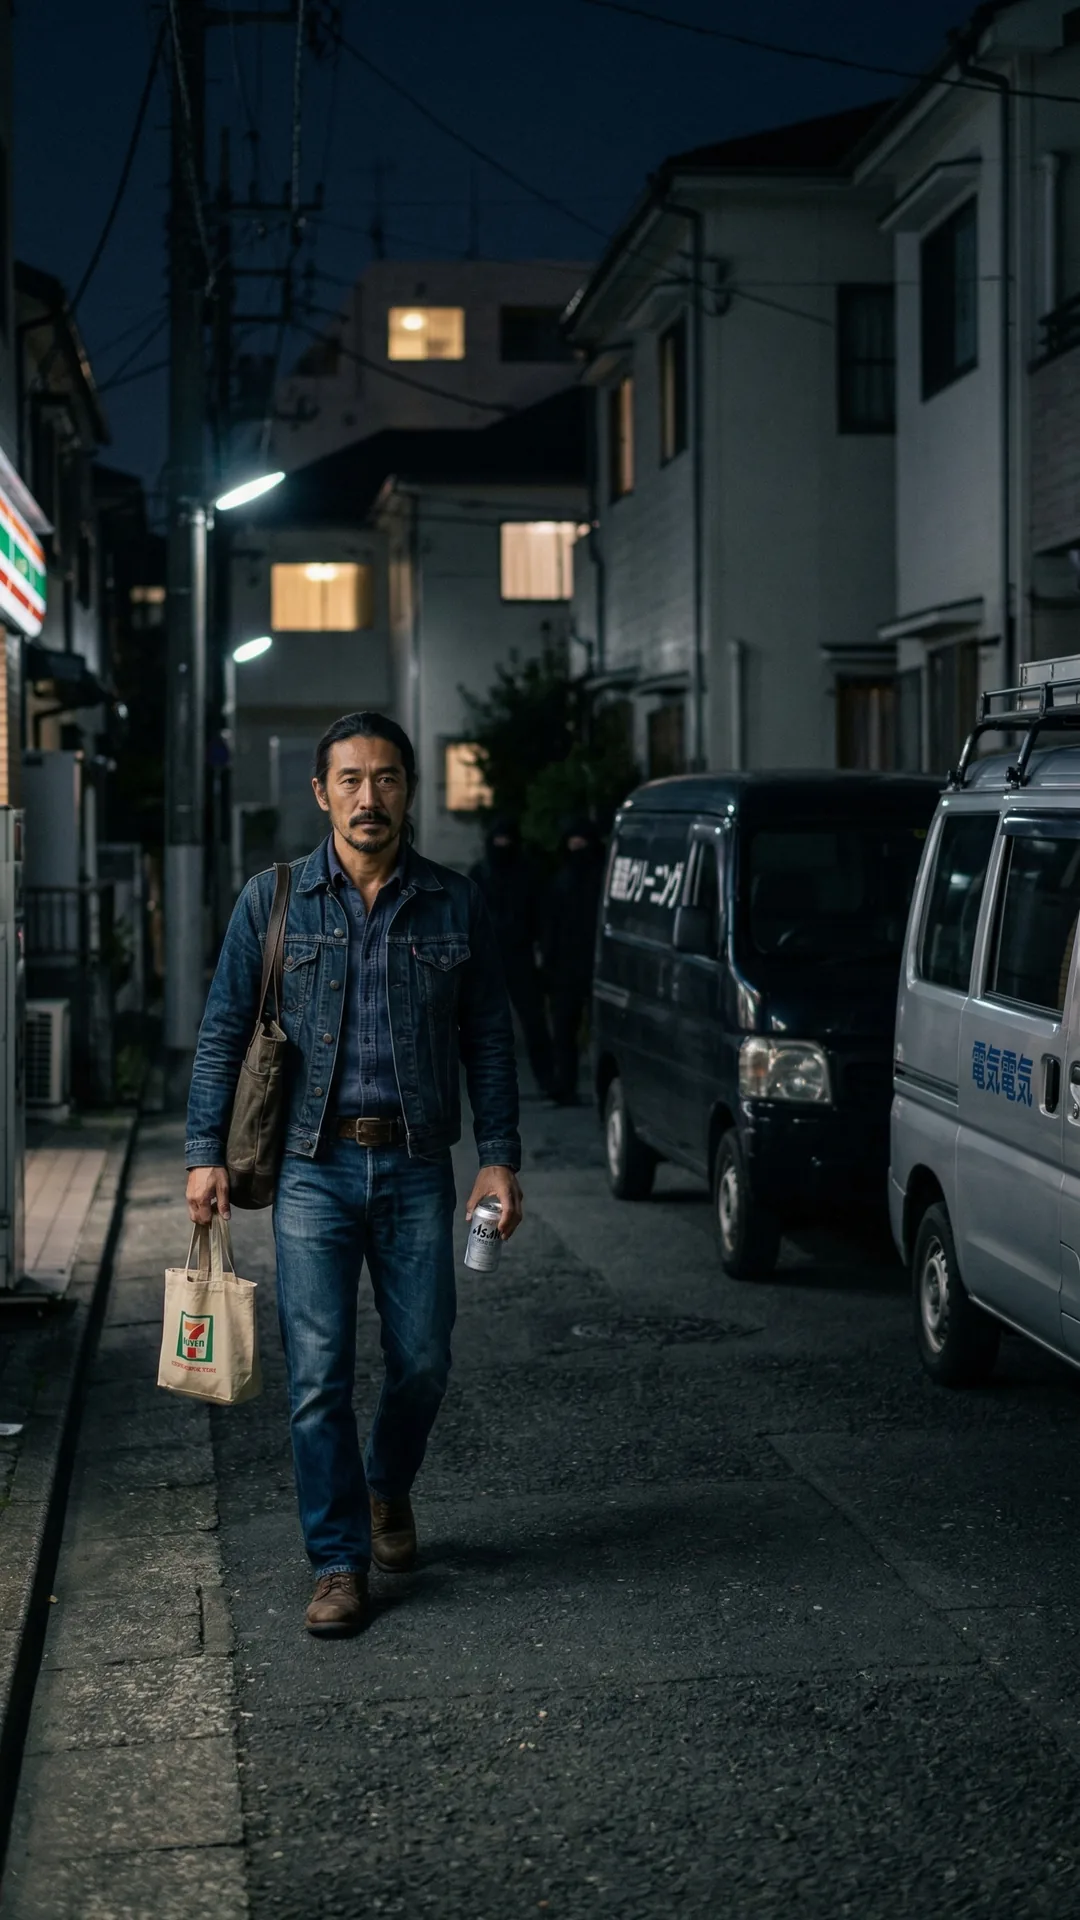
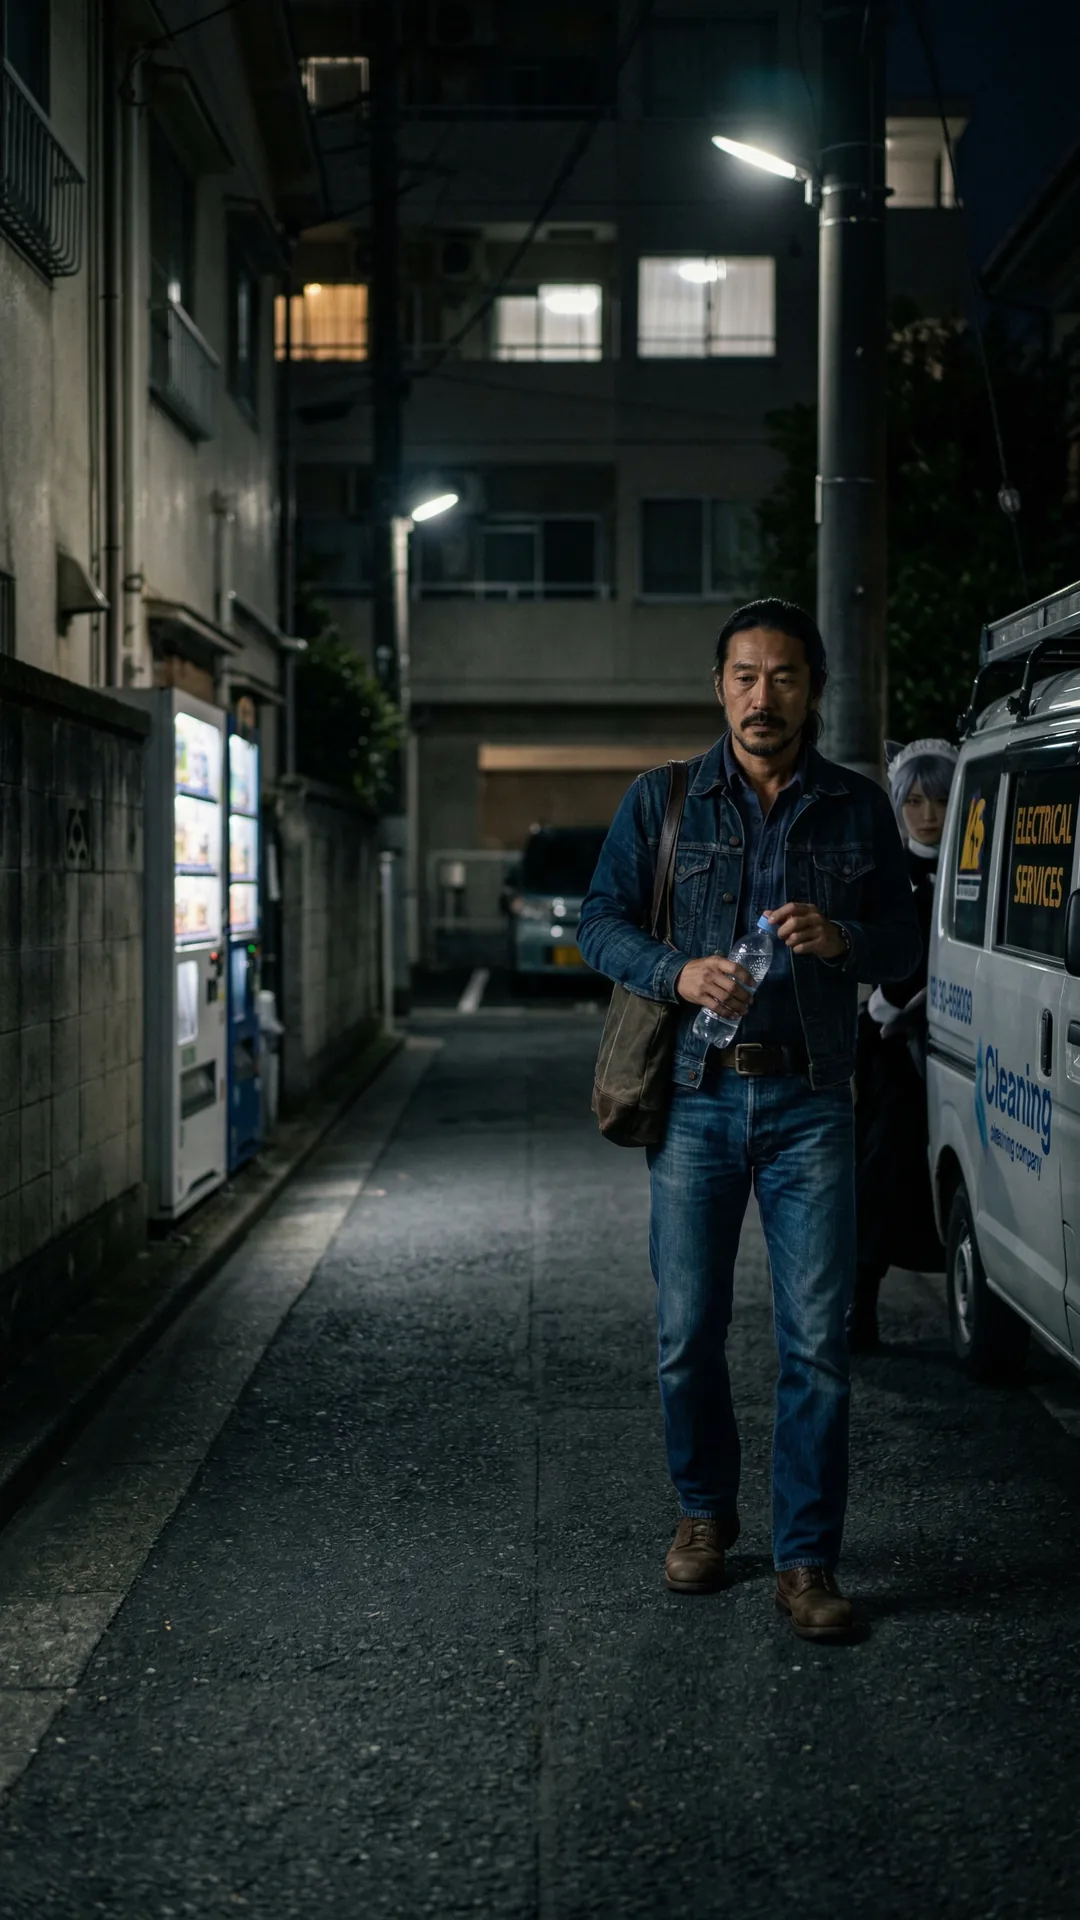
Refine title flow and chapter 3 visuals

diff --git a/docs/story-data.js b/docs/story-data.js
@@ -1,18 +1,18 @@
 window.STORY_DATA = {
-  "title": "サトーの優雅な休日、ただし暗殺者つき",
+  "title": "サトーの優雅な休日、ただし猫耳メイド護衛付き",
   "subtitle": "",
   "author": "",
   "genre": "現代スパイ日常コメディ",
   "slug": "sato-holiday-assassins",
   "status": "reviewing_chapter_03",
-  "updatedAt": "2026-03-08T08:15:22.995Z",
+  "updatedAt": "2026-03-08T08:52:03.648Z",
   "titleDisplayLines": [
     "サトーの優雅な休日、",
-    "ただし暗殺者つき"
+    "ただし猫耳メイド護衛付き"
   ],
   "titleImage": "./images/title/title-cover.webp",
-  "titleImageAlt": "サトーの優雅な休日、ただし暗殺者つき のタイトルビジュアル",
-  "generatedAt": "2026-03-08T08:15:22.996Z",
+  "titleImageAlt": "サトーの優雅な休日、ただし猫耳メイド護衛付き のタイトルビジュアル",
+  "generatedAt": "2026-03-08T08:52:03.649Z",
   "talkCount": 6,
   "sceneCount": 12,
   "scenes": [
@@ -512,23 +512,23 @@ window.STORY_DATA = {
       "talkTitle": "第1話　商店街の寄り道",
       "talkIndex": 2,
       "sectionLabel": "第2節",
-      "title": "第2節　豆屋の角は香りが濃い",
-      "summary": "商店街の端には、小さな自家焙煎の豆屋がある。店先へ立つだけで、昼の空気が少しだけ深くなるような香りがした。サトーはその匂いを吸い込むたび、コーヒーというのは飲み物である前に環境…",
+      "title": "第2節　焙煎店の角は香りが濃い",
+      "summary": "商店街の端には、小さな自家焙煎の店がある。店先へ立つだけで、昼の空気が少しだけ深くなるような香りがした。サトーはその匂いを吸い込むたび、コーヒーというのは飲み物である前に環境な…",
       "image": "./images/episodes/scene-002-001-002.webp",
-      "alt": "第2章　昼の第2節　豆屋の角は香りが濃いをイメージしたビジュアルカード",
+      "alt": "第2章　昼の第2節　焙煎店の角は香りが濃いをイメージしたビジュアルカード",
       "beatCount": 14,
       "beats": [
         {
           "id": "scene-002-001-002-beat-001",
           "index": 0,
           "kind": "narration",
-          "rawText": "商店街の端には、小さな自家焙煎の豆屋がある。店先へ立つだけで、昼の空気が少しだけ深くなるような香りがした。サトーはその匂いを吸い込むたび、コーヒーというのは飲み物である前に環境なのかもしれない、と思う。"
+          "rawText": "商店街の端には、小さな自家焙煎の店がある。店先へ立つだけで、昼の空気が少しだけ深くなるような香りがした。サトーはその匂いを吸い込むたび、コーヒーというのは飲み物である前に環境なのかもしれない、と思う。"
         },
         {
           "id": "scene-002-001-002-beat-002",
           "index": 1,
           "kind": "narration",
-          "rawText": "豆の袋を眺めながら、深煎りにするか、中煎りにするかでしばらく迷う。休日の午後へつなぐなら深煎りだが、夜の余韻まで考えるなら中煎りがいい。サトーにとって選択とは、だいたい今だけでなく数時間先の機嫌を決める行為だった。"
+          "rawText": "コーヒー豆の袋を眺めながら、深煎りにするか、中煎りにするかでしばらく迷う。休日の午後へつなぐなら深煎りだが、夜の余韻まで考えるなら中煎りがいい。サトーにとって選択とは、だいたい今だけでなく数時間先の機嫌を決める行為だった。"
         },
         {
           "id": "scene-002-001-002-beat-003",
@@ -540,7 +540,7 @@ window.STORY_DATA = {
           "id": "scene-002-001-002-beat-004",
           "index": 3,
           "kind": "narration",
-          "rawText": "ニャル子は豆屋のひさしの上から、男の靴先だけを見ていた。歩調が配達のそれではない。荷重が前へ逃げすぎていて、逃走の準備が先に来ている。"
+          "rawText": "ニャル子は焙煎店のひさしの上から、男の靴先だけを見ていた。歩調が配達のそれではない。荷重が前へ逃げすぎていて、逃走の準備が先に来ている。"
         },
         {
           "id": "scene-002-001-002-beat-005",
@@ -558,7 +558,7 @@ window.STORY_DATA = {
           "id": "scene-002-001-002-beat-007",
           "index": 6,
           "kind": "narration",
-          "rawText": "段ボールは本人の足元で潰れ、中の反応剤はまだ混ざる前に、ニャル子が袖口から滑らせた吸着布へ飲み込まれた。男が声を上げるより早く、彼女は肘で鳩尾を打ち、膝裏を払う。崩れた体を豆屋の脇の死角へ引き込むまで、店先の風鈴は一度しか鳴らなかった。"
+          "rawText": "段ボールは本人の足元で潰れ、中の反応剤はまだ混ざる前に、ニャル子が袖口から滑らせた吸着布へ飲み込まれた。男が声を上げるより早く、彼女は肘で鳩尾を打ち、膝裏を払う。崩れた体を焙煎店の脇の死角へ引き込むまで、店先の風鈴は一度しか鳴らなかった。"
         },
         {
           "id": "scene-002-001-002-beat-008",
@@ -736,7 +736,7 @@ window.STORY_DATA = {
           "id": "scene-002-002-002-beat-008",
           "index": 7,
           "kind": "dialogue",
-          "rawText": "「帰り道に、いい豆でもあれば完璧なんだけどな」"
+          "rawText": "「このまま静かに帰れたら、かなり上出来だな」"
         },
         {
           "id": "scene-002-002-002-beat-009",
@@ -774,7 +774,7 @@ window.STORY_DATA = {
           "id": "scene-003-001-001-beat-002",
           "index": 1,
           "kind": "narration",
-          "rawText": "紙袋の中身はちょうどいい。昆布、漬物、豆、本、それに昼の名残の甘い匂い。これだけあれば、帰ってからの時間はだいたいうまくいく。サトーは歩きながら、今夜は軽く茶漬けにして、そのあと新しい豆を少しだけ挽こうかと考えていた。休日の終わりは、派手でなくていい。むしろ、きれいに静かであれば十分だった。"
+          "rawText": "紙袋の中身はちょうどいい。昆布、漬物、コーヒー豆、本、それに昼の名残の甘い匂い。これだけあれば、帰ってからの時間はだいたいうまくいく。サトーは歩きながら、今夜は軽く茶漬けにして、そのあと新しいコーヒー豆を少しだけ挽こうかと考えていた。休日の終わりは、派手でなくていい。むしろ、きれいに静かであれば十分だった。"
         },
         {
           "id": "scene-003-001-001-beat-003",
@@ -884,7 +884,7 @@ window.STORY_DATA = {
           "id": "scene-003-001-002-beat-003",
           "index": 2,
           "kind": "narration",
-          "rawText": "路地へ戻ると、夜気はもう昼の余熱をほとんど手放していた。サトーは炭酸水の缶を軽く振り、音だけ確かめる。これを風呂上がりまで残しておけたら今日は勝ちだ、と彼は思った。"
+          "rawText": "路地へ戻ると、夜気はもう昼の余熱をほとんど手放していた。サトーは炭酸水のペットボトルを軽く傾け、キャップ越しに気泡の音だけ確かめる。これを風呂上がりまで残しておけたら今日は勝ちだ、と彼は思った。"
         },
         {
           "id": "scene-003-001-002-beat-004",
@@ -920,7 +920,7 @@ window.STORY_DATA = {
           "id": "scene-003-001-002-beat-009",
           "index": 8,
           "kind": "narration",
-          "rawText": "残る二人はマンション前へ駆けようとした。サトーはちょうど、その数メートル先で炭酸水の缶を持ち直している。危ない距離だが、見えてしまう距離ではない。ニャル子はエプロンの裏から二本の短い針を抜き、歩幅のリズムに合わせて放った。一本は肩口、もう一本は手首。男たちは声を上げる暇もなく壁へもたれ、そのままずるずると座り込む。"
+          "rawText": "残る二人はマンション前へ駆けようとした。サトーはちょうど、その数メートル先で炭酸水のペットボトルを持ち直している。危ない距離だが、見えてしまう距離ではない。ニャル子はエプロンの裏から二本の短い針を抜き、歩幅のリズムに合わせて放った。一本は肩口、もう一本は手首。男たちは声を上げる暇もなく壁へもたれ、そのままずるずると座り込む。"
         },
         {
           "id": "scene-003-001-002-beat-010",
@@ -979,7 +979,7 @@ window.STORY_DATA = {
       "talkIndex": 5,
       "sectionLabel": "第1節",
       "title": "第1節　部屋の灯りはやわらかい",
-      "summary": "部屋へ入ると、サトーはまず靴を揃えた。荷物を台所へ置き、昆布と漬物を冷蔵庫へ収め、豆の袋だけは食器棚の前へ出しておく。帰宅直後の数分で生活が整うと、その夜はだいたいうまく終わる…",
+      "summary": "部屋へ入ると、サトーはまず靴を揃えた。荷物を台所へ置き、昆布と漬物を冷蔵庫へ収め、コーヒー豆の袋だけは食器棚の前へ出しておく。帰宅直後の数分で生活が整うと、その夜はだいたいうま…",
       "image": "./images/episodes/scene-003-002-001.webp",
       "alt": "第3章　夜の第1節　部屋の灯りはやわらかいをイメージしたビジュアルカード",
       "beatCount": 12,
@@ -988,7 +988,7 @@ window.STORY_DATA = {
           "id": "scene-003-002-001-beat-001",
           "index": 0,
           "kind": "narration",
-          "rawText": "部屋へ入ると、サトーはまず靴を揃えた。荷物を台所へ置き、昆布と漬物を冷蔵庫へ収め、豆の袋だけは食器棚の前へ出しておく。帰宅直後の数分で生活が整うと、その夜はだいたいうまく終わる。そういう確信めいた経験則が、年を取ってから少しずつ増えた。"
+          "rawText": "部屋へ入ると、サトーはまず靴を揃えた。荷物を台所へ置き、昆布と漬物を冷蔵庫へ収め、コーヒー豆の袋だけは食器棚の前へ出しておく。帰宅直後の数分で生活が整うと、その夜はだいたいうまく終わる。そういう確信めいた経験則が、年を取ってから少しずつ増えた。"
         },
         {
           "id": "scene-003-002-001-beat-002",
@@ -1000,7 +1000,7 @@ window.STORY_DATA = {
           "id": "scene-003-002-001-beat-003",
           "index": 2,
           "kind": "narration",
-          "rawText": "風呂から上がると、冷やしておいた炭酸水の缶がちょうどいい温度になっていた。勝ちだ、とサトーは思う。ソファへ腰を下ろし、缶を開ける音を聞き、それから一口飲む。強すぎない刺激が喉を抜け、今日一日の輪郭だけが少しはっきりした。"
+          "rawText": "風呂から上がると、冷やしておいた炭酸水のペットボトルがちょうどいい温度になっていた。勝ちだ、とサトーは思う。柔らかい部屋着に着替えてソファへ腰を下ろし、キャップをひねる小さな音を聞いてから一口飲む。強すぎない刺激が喉を抜け、今日一日の輪郭だけが少しはっきりした。"
         },
         {
           "id": "scene-003-002-001-beat-004",

diff --git a/docs/index.html b/docs/index.html
@@ -6,10 +6,10 @@
       name="viewport"
       content="width=device-width, initial-scale=1, viewport-fit=cover"
     />
-    <title>サトーの優雅な休日、ただし暗殺者つき</title>
+    <title>サトーの優雅な休日、ただし猫耳メイド護衛付き</title>
     <meta
       name="description"
-      content="サトーの優雅な休日、ただし暗殺者つきを、画像付きの縦スクロールWeb小説として読める静的サイト。"
+      content="サトーの優雅な休日、ただし猫耳メイド護衛付きを、画像付きの縦スクロールWeb小説として読める静的サイト。"
     />
     <link rel="stylesheet" href="./styles.css" />
   </head>

diff --git a/soudoku-novel-builder/SKILL.md b/soudoku-novel-builder/SKILL.md
@@ -1,6 +1,6 @@
 ---
 name: soudoku-novel-builder
-description: Use this skill when the user wants to create, continue, revise, or publish a soudoku novel project that first locks plot, major characters, character images, and background concepts, then builds the story chapter by chapter with chapter review, section image generation, and a mobile-friendly web build under docs/.
+description: Use this skill when the user wants to create, continue, revise, or publish a soudoku novel project that first locks plot, major characters, character images, and background concepts, then builds the story chapter by chapter with chapter review, section image generation, and finally creates the title image and mobile-friendly web build under docs/.
 ---
 
 # Soudoku Novel Builder
@@ -21,7 +21,7 @@ description: Use this skill when the user wants to create, continue, revise, or 
 - 聖典は `project/01_plot.md`, `project/02_characters.md`, `project/03_worldbuilding.md`, `project/04_chapter_outline.md`, `project/05_style_guide.md` に置く。本文を書く前にここを同期する。
 - 構成単位は必ず `章 > 話 > 節`。`節` は背景や状況が切り替わる画面ショット単位で、画像生成の最小単位でもある。
 - 節画像の `scene-id` は `scene-章(000)-話(000)-節(000)` 形式にする。例: `scene-001-002-003` は「第1章第2話第3節」。
-- 初回承認前に作るのは `project/01_plot.md`, `project/02_characters.md`, `project/03_worldbuilding.md`, `project/04_chapter_outline.md`, `prompts/character-portraits.json`, `prompts/background-concepts.json` とその生成物。
+- 初回承認前に作るのは `project/01_plot.md`, `project/02_characters.md`, `project/03_worldbuilding.md`, `project/04_chapter_outline.md`, `prompts/character-portraits.json`, `prompts/background-concepts.json` とその生成物。タイトル画像はこの段階では作らない。
 - 制作中の画像や中間生成物は常に `project/assets/` に保存する。`docs/` は配信用にビルドした結果だけを置く。
 - 本文、画像、ビルドの作業中に設計との差分を見つけたら、必ずユーザへ先に指摘する。勝手に本文や画像へ反映しない。
 - 設計変更が必要な場合は、必ず先に `project/` 側の該当ファイルを修正し、必要ならユーザ確認を取る。その後で本文・画像・ビルドに進む。
@@ -56,7 +56,6 @@ description: Use this skill when the user wants to create, continue, revise, or 
 
 ### 2. 初期ビジュアル設計
 
-- タイトル画像が必要なら `prompts/title-image.json` を更新して `node scripts/generate-title-image.mjs` を使う。
 - キャラクター画像は `references/prompt-files.md` の `character-portraits.json` 形式に従って更新する。
 - 背景イメージは `prompts/background-concepts.json` を更新し、物語の基調となる主要背景を先に作る。
 
@@ -82,6 +81,13 @@ description: Use this skill when the user wants to create, continue, revise, or 
 - `node scripts/build-episode-image-manifest.mjs`
 - 追加または修正した `節` の `scene-id` だけを `node scripts/generate-episode-image.mjs <scene-id ...>` で生成する。既存画像を作り直さない。
 - 節画像生成後に再度 `node scripts/build-web-novel.mjs`
+
+### 5.5. 最終タイトル画像
+
+- タイトル画像は本文、主要節画像、キャラクター像、全体トーンが固まった最後に作る。
+- `prompts/title-image.json` は、その時点で確定した `project/02_characters.md`, `project/05_style_guide.md`, `project/assets/characters/*.png`, `project/assets/world/*.webp` に合わせて更新する。
+- タイトル画像は現在のキャラクター画像と印象を揃える。必要なら `referenceImages` にサトーとニャル子の最新画像を入れて `node scripts/generate-title-image.mjs` を使う。
+- タイトル画像でも `第1章`, `第2話`, `第3節` のような文字情報やロゴや UI 表示を画像に埋め込まない。
 
 ### 6. 整合性確認
 

diff --git a/soudoku-novel-builder/references/prompt-files.md b/soudoku-novel-builder/references/prompt-files.md
@@ -14,6 +14,9 @@
     "id": "title-cover",
     "model": "gemini-3.1-flash-image-preview",
     "outputDir": "project/assets/title",
+    "referenceImages": [
+      "project/assets/characters/protagonist.png"
+    ],
     "prompt": "cover-specific direction",
     "negativePrompt": "cover-specific avoidance"
   }
@@ -108,9 +111,10 @@
 
 ## Usage Notes
 
-- 初期フェーズでは `title-image.json`, `character-portraits.json`, `background-concepts.json` を先に整える
+- 初期フェーズでは `character-portraits.json` と `background-concepts.json` を先に整える
 - 生成物の保存先は `project/assets/`。`docs/` は `build-web-novel.mjs` が配信用に組み立てる
 - キャラクター画像生成後は `referenceImage` を生成結果に合わせて更新する
+- タイトル画像は最終工程で生成する。`referenceImages` に最新のキャラクター画像を入れ、最終的な人物像と印象を揃える
 - 節画像は `docs/story-data.js` を元に `build-episode-image-manifest.mjs` が組み立てる
 - `scene-id` は `scene-章(000)-話(000)-節(000)` 形式で、override キーや画像ファイル名もこれに揃える
 - 節画像 prompt では小説の章話節ラベルを画像に描かせない。`text`, `captions`, `chapter labels`, `talk labels`, `subtitles`, `UI overlays` などを負例に入れる

diff --git a/soudoku-novel-builder/references/project-files.md b/soudoku-novel-builder/references/project-files.md
@@ -15,7 +15,7 @@
 
 ## Asset and Build Files
 
-- `prompts/title-image.json`: タイトル画像生成定義
+- `prompts/title-image.json`: 最終工程で使うタイトル画像生成定義
 - `prompts/background-concepts.json`: 初期フェーズで使う背景イメージ生成定義
 - `prompts/character-portraits.json`: キャラクター画像生成定義
 - `prompts/scene-character-references.json`: 節画像用の参照キャラクター定義と上書き
@@ -32,7 +32,8 @@
 5. 初回承認を取る
 6. 承認後に本文を `project/manuscript/` に反映
 7. 章ができるごとに `build-episode-image-manifest.mjs` を更新し、新規追加または修正した `節` の画像だけを `project/assets/episodes/` に生成する
-8. その時点の `project/assets/` の画像と本文から `docs/` をビルドして確認
+8. 全体が固まった最後に `prompts/title-image.json` を更新し、現在のキャラクター画像に寄せてタイトル画像を生成する
+9. その時点の `project/assets/` の画像と本文から `docs/` をビルドして確認
 
 ## Change Guardrails
 
